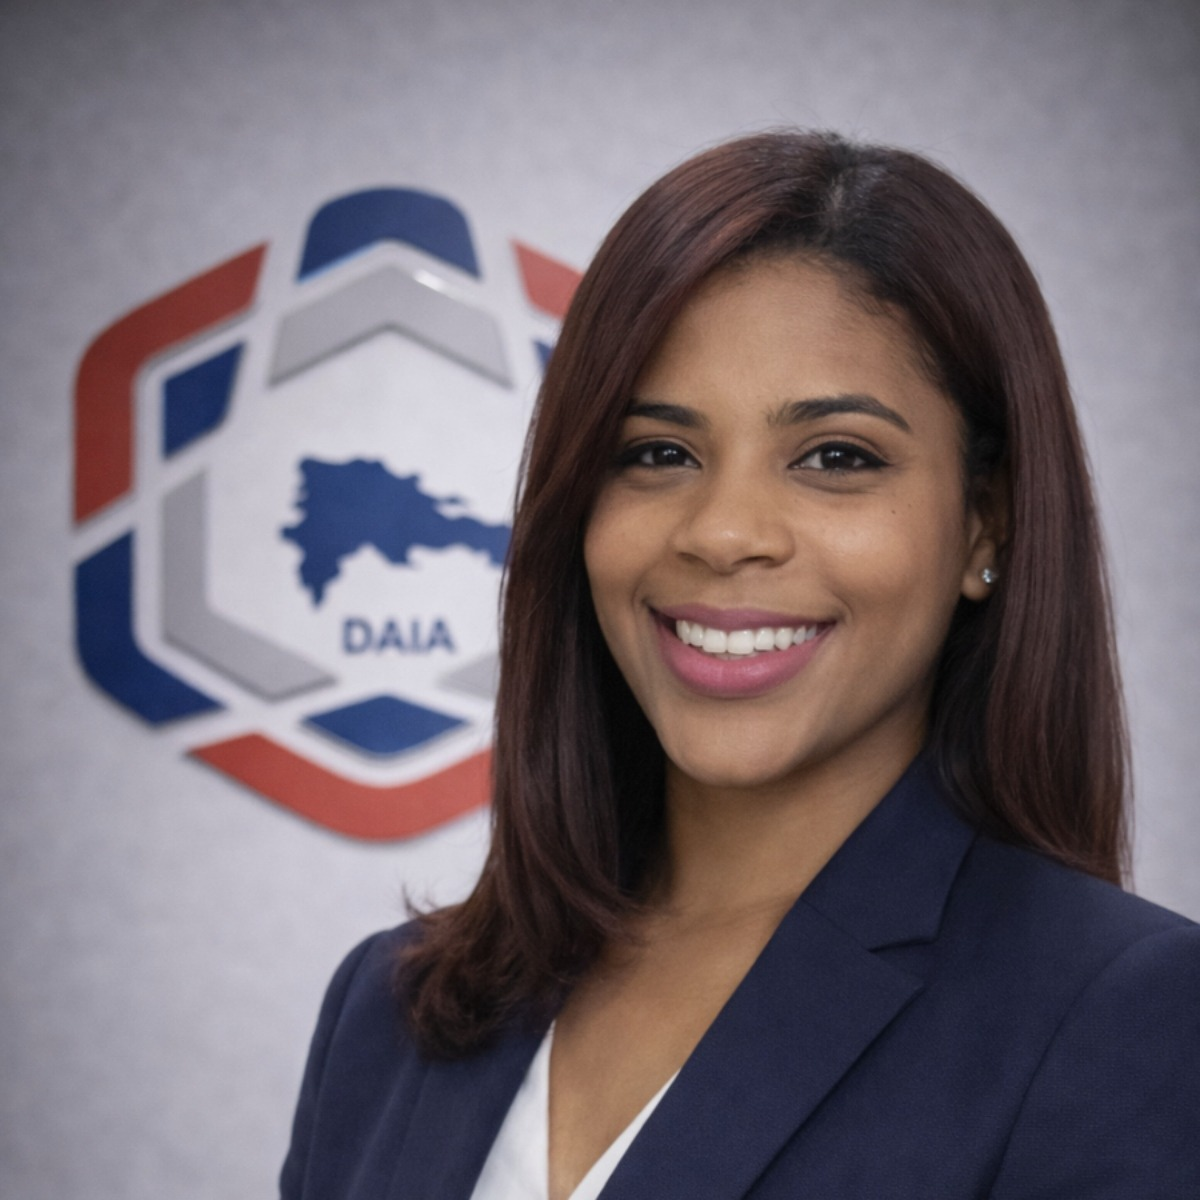
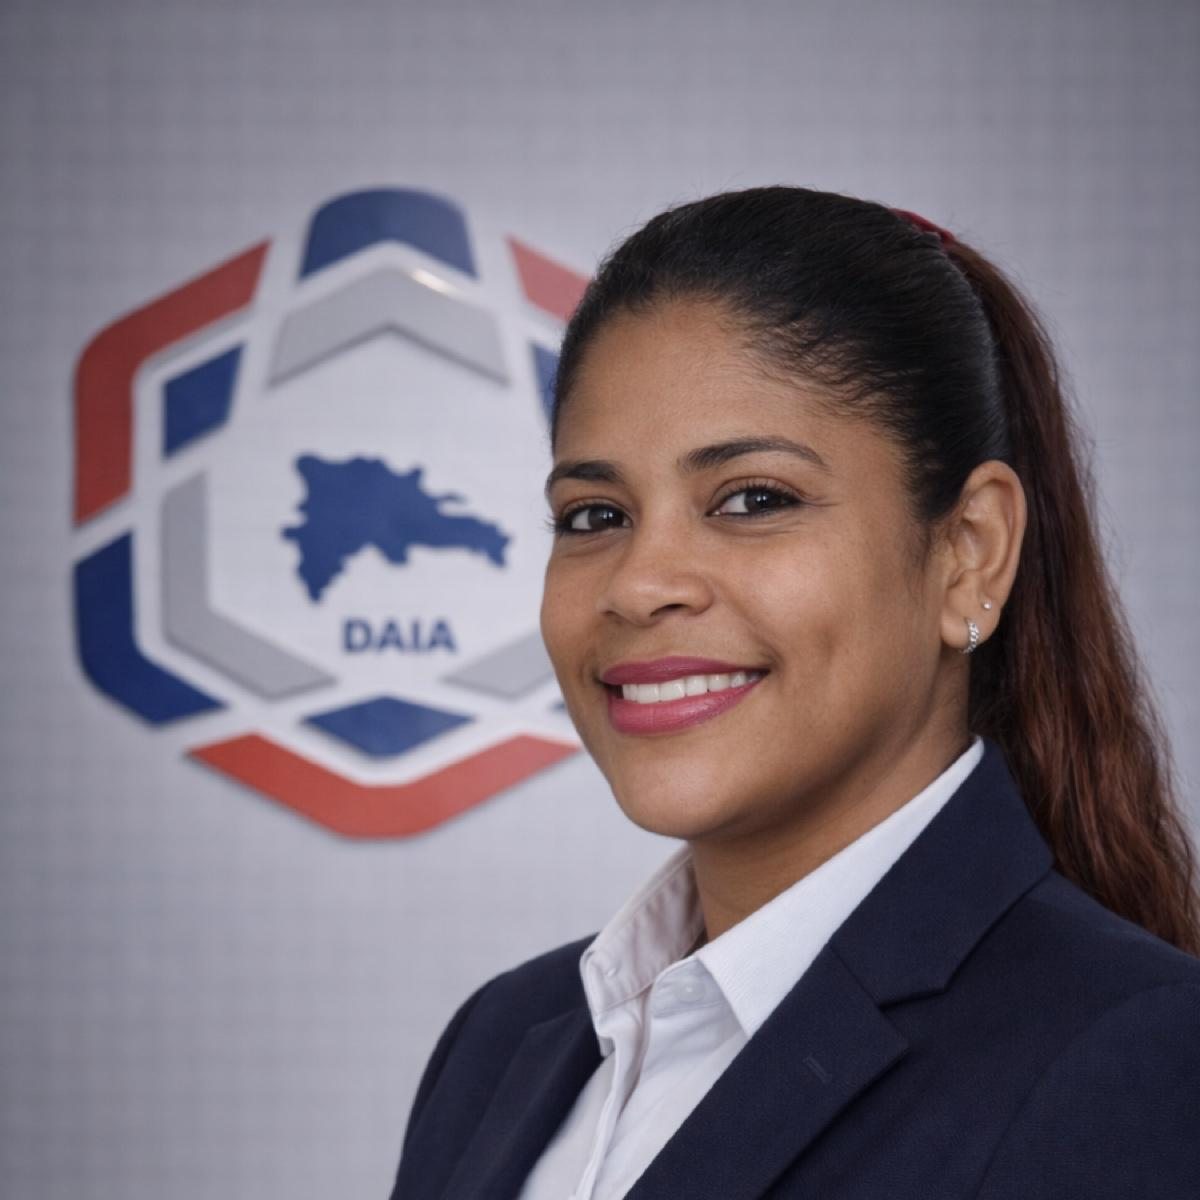
Update: Changed team member foto

diff --git a/src/pages/Teams.tsx b/src/pages/Teams.tsx
@@ -27,7 +27,7 @@ const teamMembers = [
   {
     id: 3,
     name: "Emelys Rivera",
-    role: "Financial Officer",
+    role: "Controller",
     image: teamMember3,
   },
   {